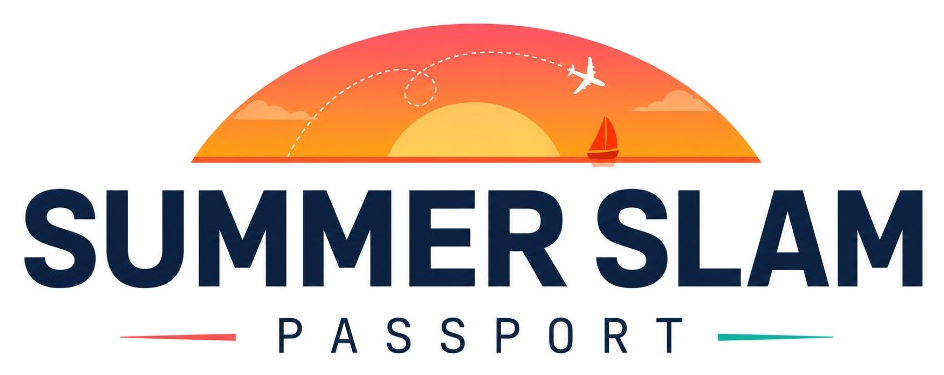
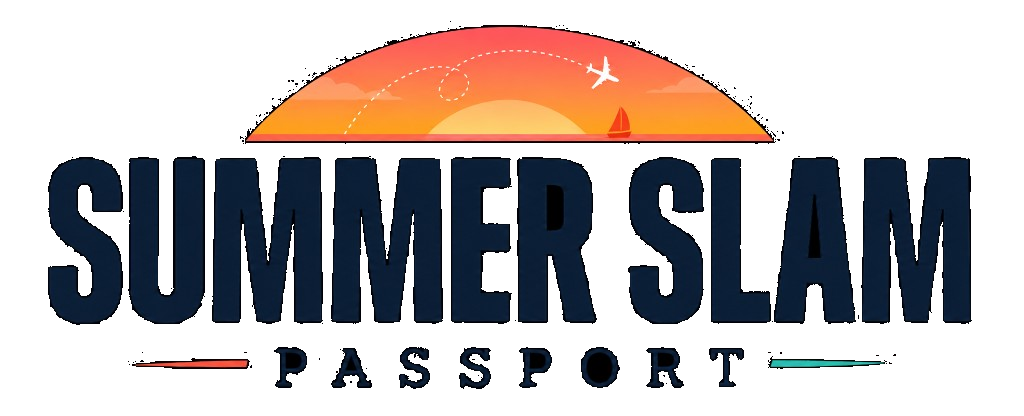
Summer Slam: update passport header artwork

diff --git a/src/pages/summer-slam/_components/passport-assets.ts b/src/pages/summer-slam/_components/passport-assets.ts
@@ -2,7 +2,7 @@
  * Shared Summer Slam artwork — used by landing, live passport, and demo passport.
  * Bump ASSET_VERSION whenever files in /public/summer-slam change.
  */
-export const ASSET_VERSION = "2026-06-21-bonus-seal-v2";
+export const ASSET_VERSION = "2026-07-17-header-v1";
 
 export function summerSlamAsset(path: string): string {
   return `${path}?v=${ASSET_VERSION}`;
@@ -47,8 +47,8 @@ export function resolveSealArtwork(meta: {
 
 export const PASSPORT_HEADER = {
   src: summerSlamAsset("/summer-slam/passport-header.png"),
-  width: 944,
-  height: 375,
+  width: 1024,
+  height: 416,
   /** Stay at/below native width so desktop layout never upscales the PNG. */
   displayMaxWidth: 880,
 } as const;
